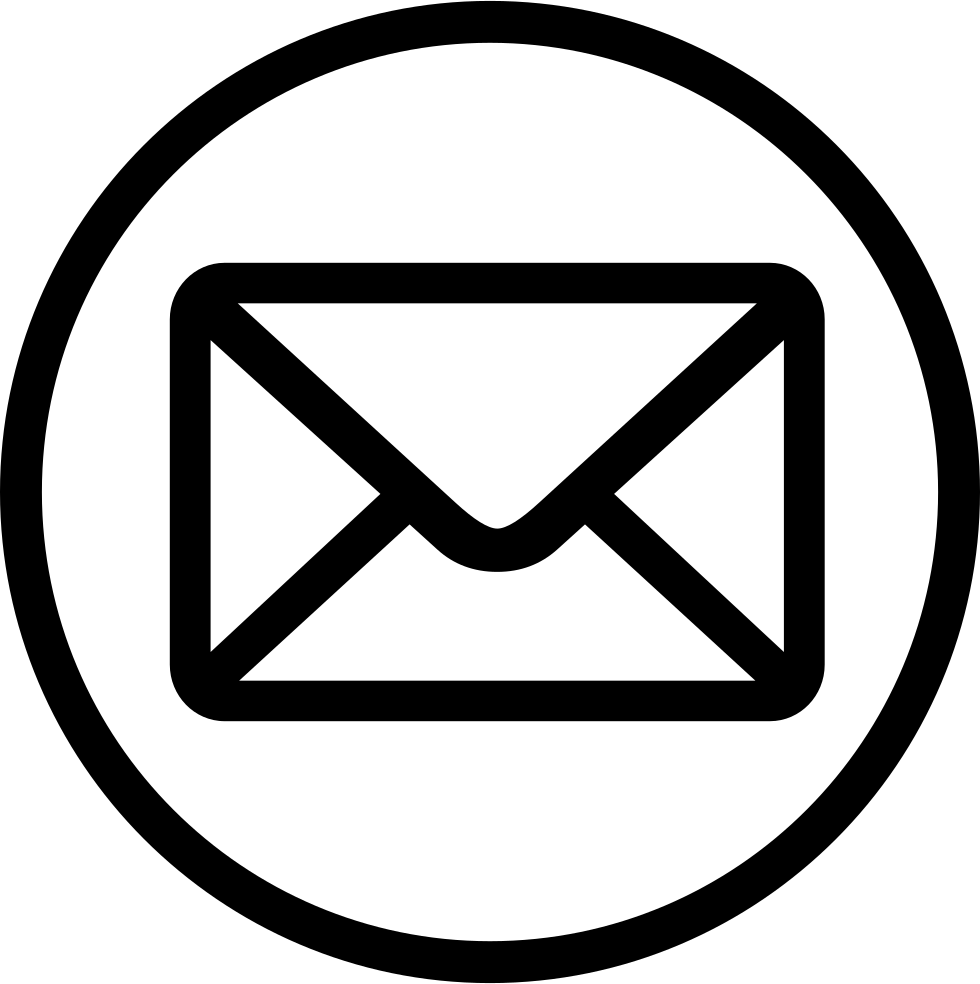
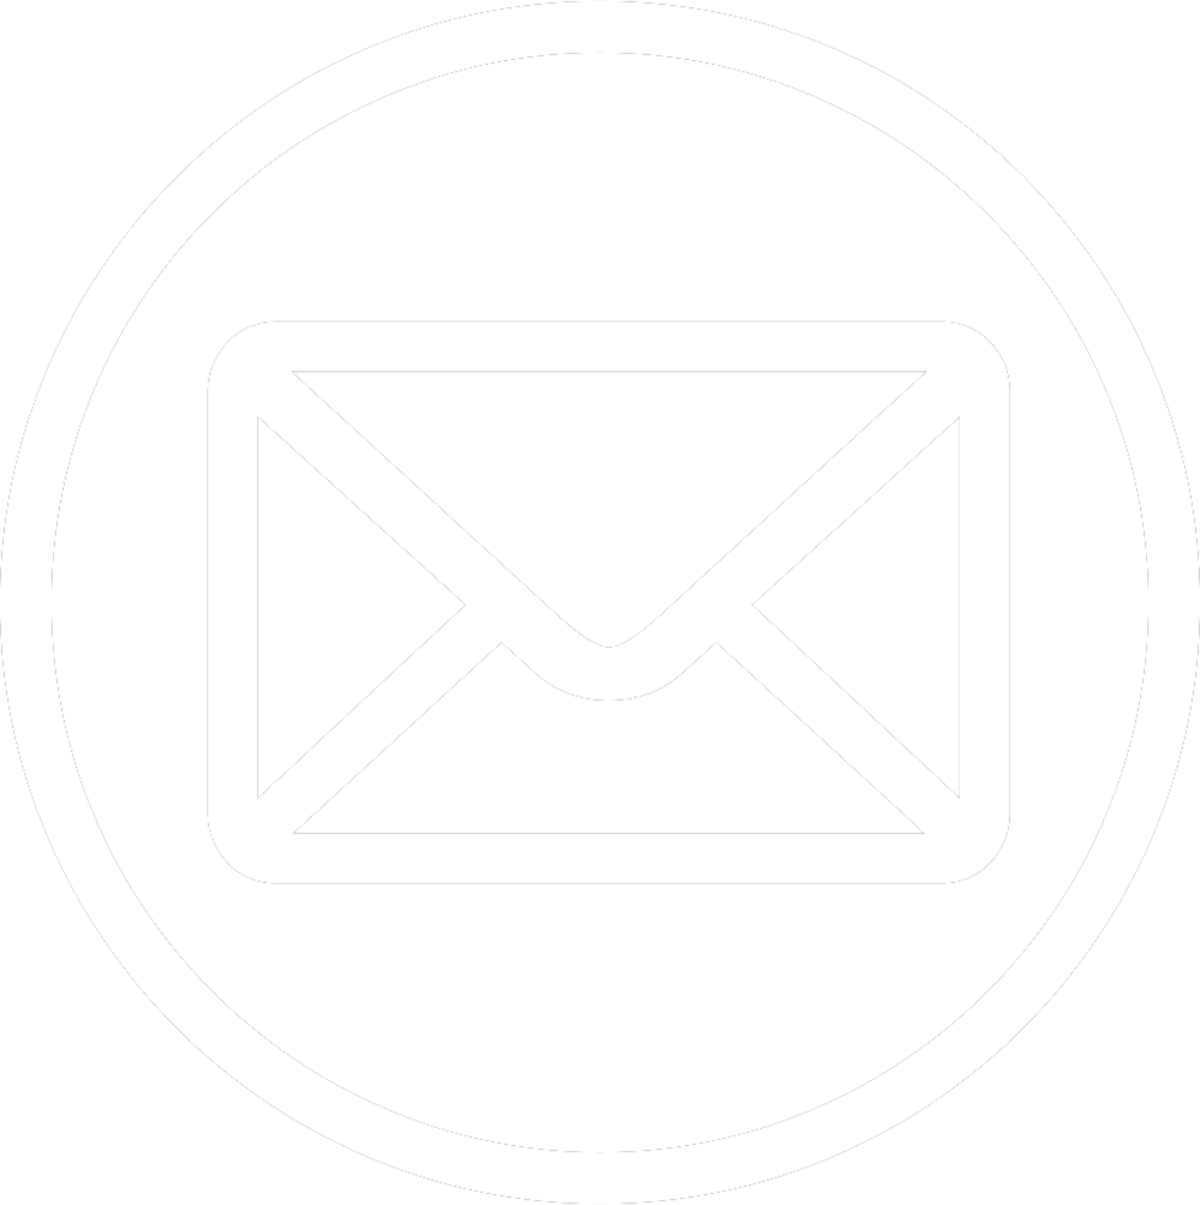
Updated contact page

Changed region(s): [[0.1531, 0.2439, 0.8571, 0.7317], [0.0, 0.0, 1.0, 1.0]]

diff --git a/src/components/Contact.js b/src/components/Contact.js
@@ -1,6 +1,7 @@
 import React from 'react'
 import { Container, Col, Row, Image, Media } from 'react-bootstrap'
 import './Contact.css'
+import './Home.css'
 
 // Icons used in the contact page
 import TelegramPic from '../images/telegram.png'
@@ -19,24 +20,39 @@ const Contact = () => {
       </Row>
       <Row>
         <Col>
-          <Media.Body className='infoBox'>
+          <Media.Body className='textBox'>
             <Image className='imageDiv' src={TelegramPic} alt='Telegram picture'></Image>
-            <h4 className='textDiv'>Telegram</h4>
+            <h4 className='mainTitle'>Telegram</h4>
+            <div className='divider'></div>
             <p className='subTextDiv'>@LassiT</p>
           </Media.Body>
         </Col>
         <Col>
-          <Media.Body className='infoBox'>
-            <Image className='imageDiv' src={EmailPic} width={160} height={160} alt='Telegram picture'></Image>
-            <h4 className='textDiv'>Email</h4>
+          <Media.Body className='textBox'>
+            <Image
+              className='imageDiv'
+              src={EmailPic}
+              width={160}
+              height={160}
+              alt='Telegram picture'
+            ></Image>
+            <h4 className='mainTitle'>Email</h4>
+            <div className='divider'></div>
             <p className='subTextDiv'>timoskainen.lassi(at).com</p>
             <p className='subTextDiv'>lassi.timoskainen(at)tuni.fi</p>
           </Media.Body>
         </Col>
         <Col>
-          <Media.Body className='infoBox'>
-            <Image className='imageDiv' src={PhonePic} width={160} height={160} alt='Telegram picture'></Image>
-            <h4 className='textDiv'>Phone</h4>
+          <Media.Body className='textBox'>
+            <Image
+              className='imageDiv'
+              src={PhonePic}
+              width={160}
+              height={160}
+              alt='Telegram picture'
+            ></Image>
+            <h4 className='mainTitle'>Phone</h4>
+            <div className='divider'></div>
             <p className='subTextDiv'>+358 044 XXX XXXX</p>
           </Media.Body>
         </Col>

diff --git a/src/components/Contact.css b/src/components/Contact.css
@@ -7,6 +7,7 @@
 }
 
 .title {
+  color: white;
   text-align: center;
   font-size: 40px;
   padding: 0px;
@@ -33,8 +34,9 @@
 }
 
 .subTextDiv {
+  color: white;
   text-align: center;
-  padding-top: 0px;
-  font-size: 20px;
+  padding-top: 20px;
+  font-size: 22px;
   overflow: hidden;
 }

diff --git a/src/components/Home.css b/src/components/Home.css
@@ -14,6 +14,7 @@
   text-align: center;
   padding: 10px;
   font-size: 40px;
+  overflow: hidden;
 }
 
 .textBox {
